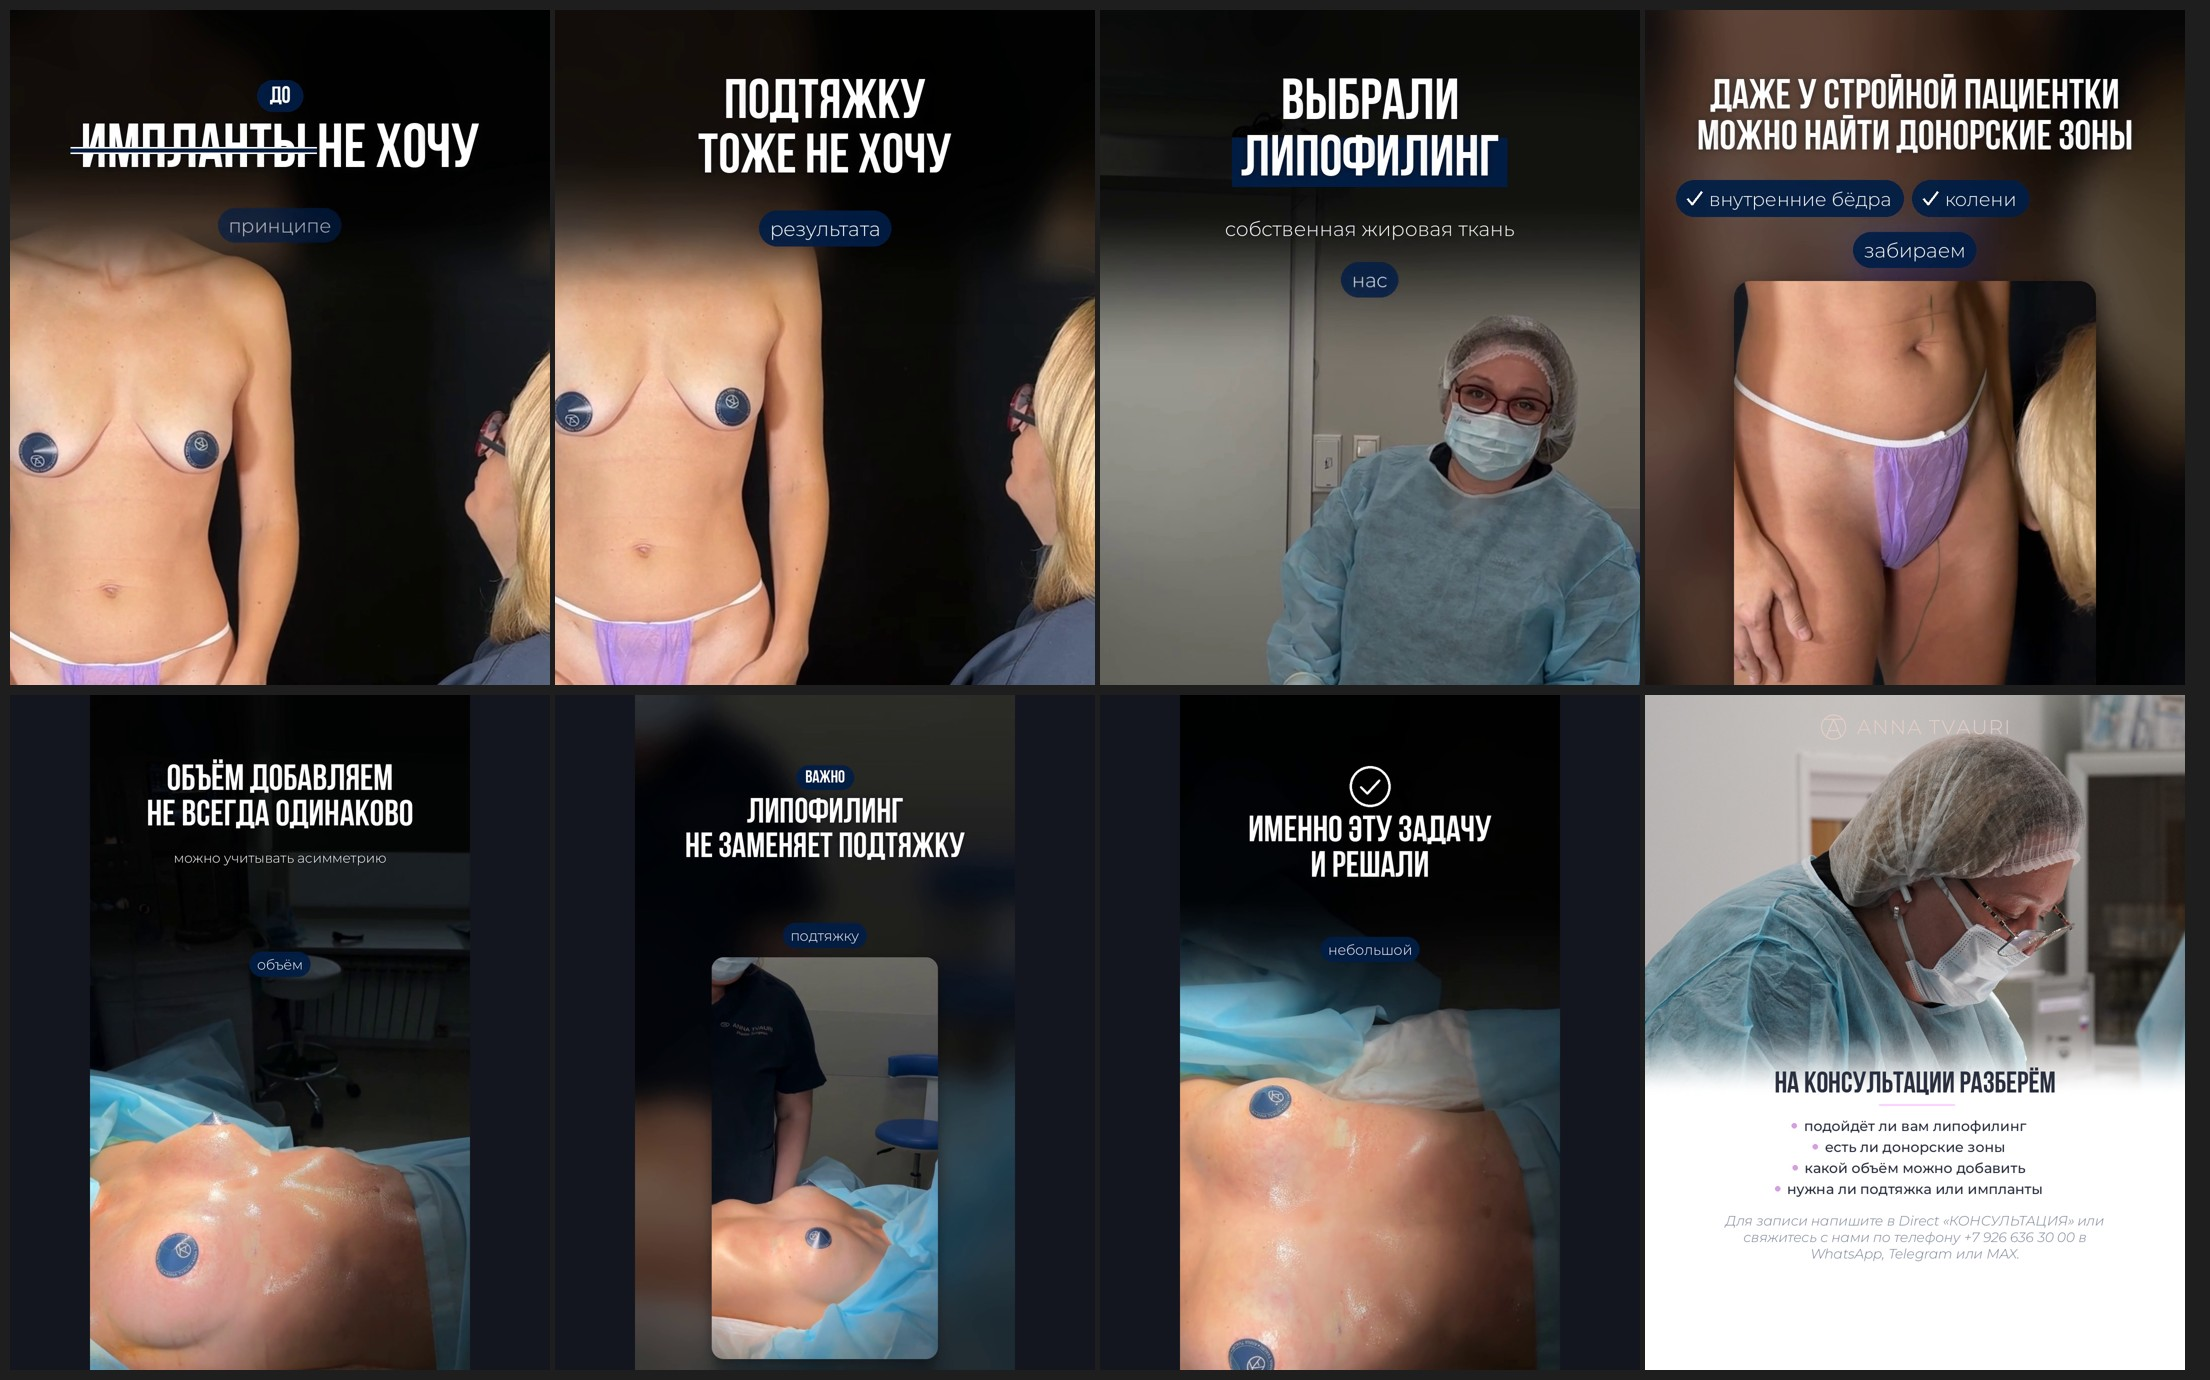
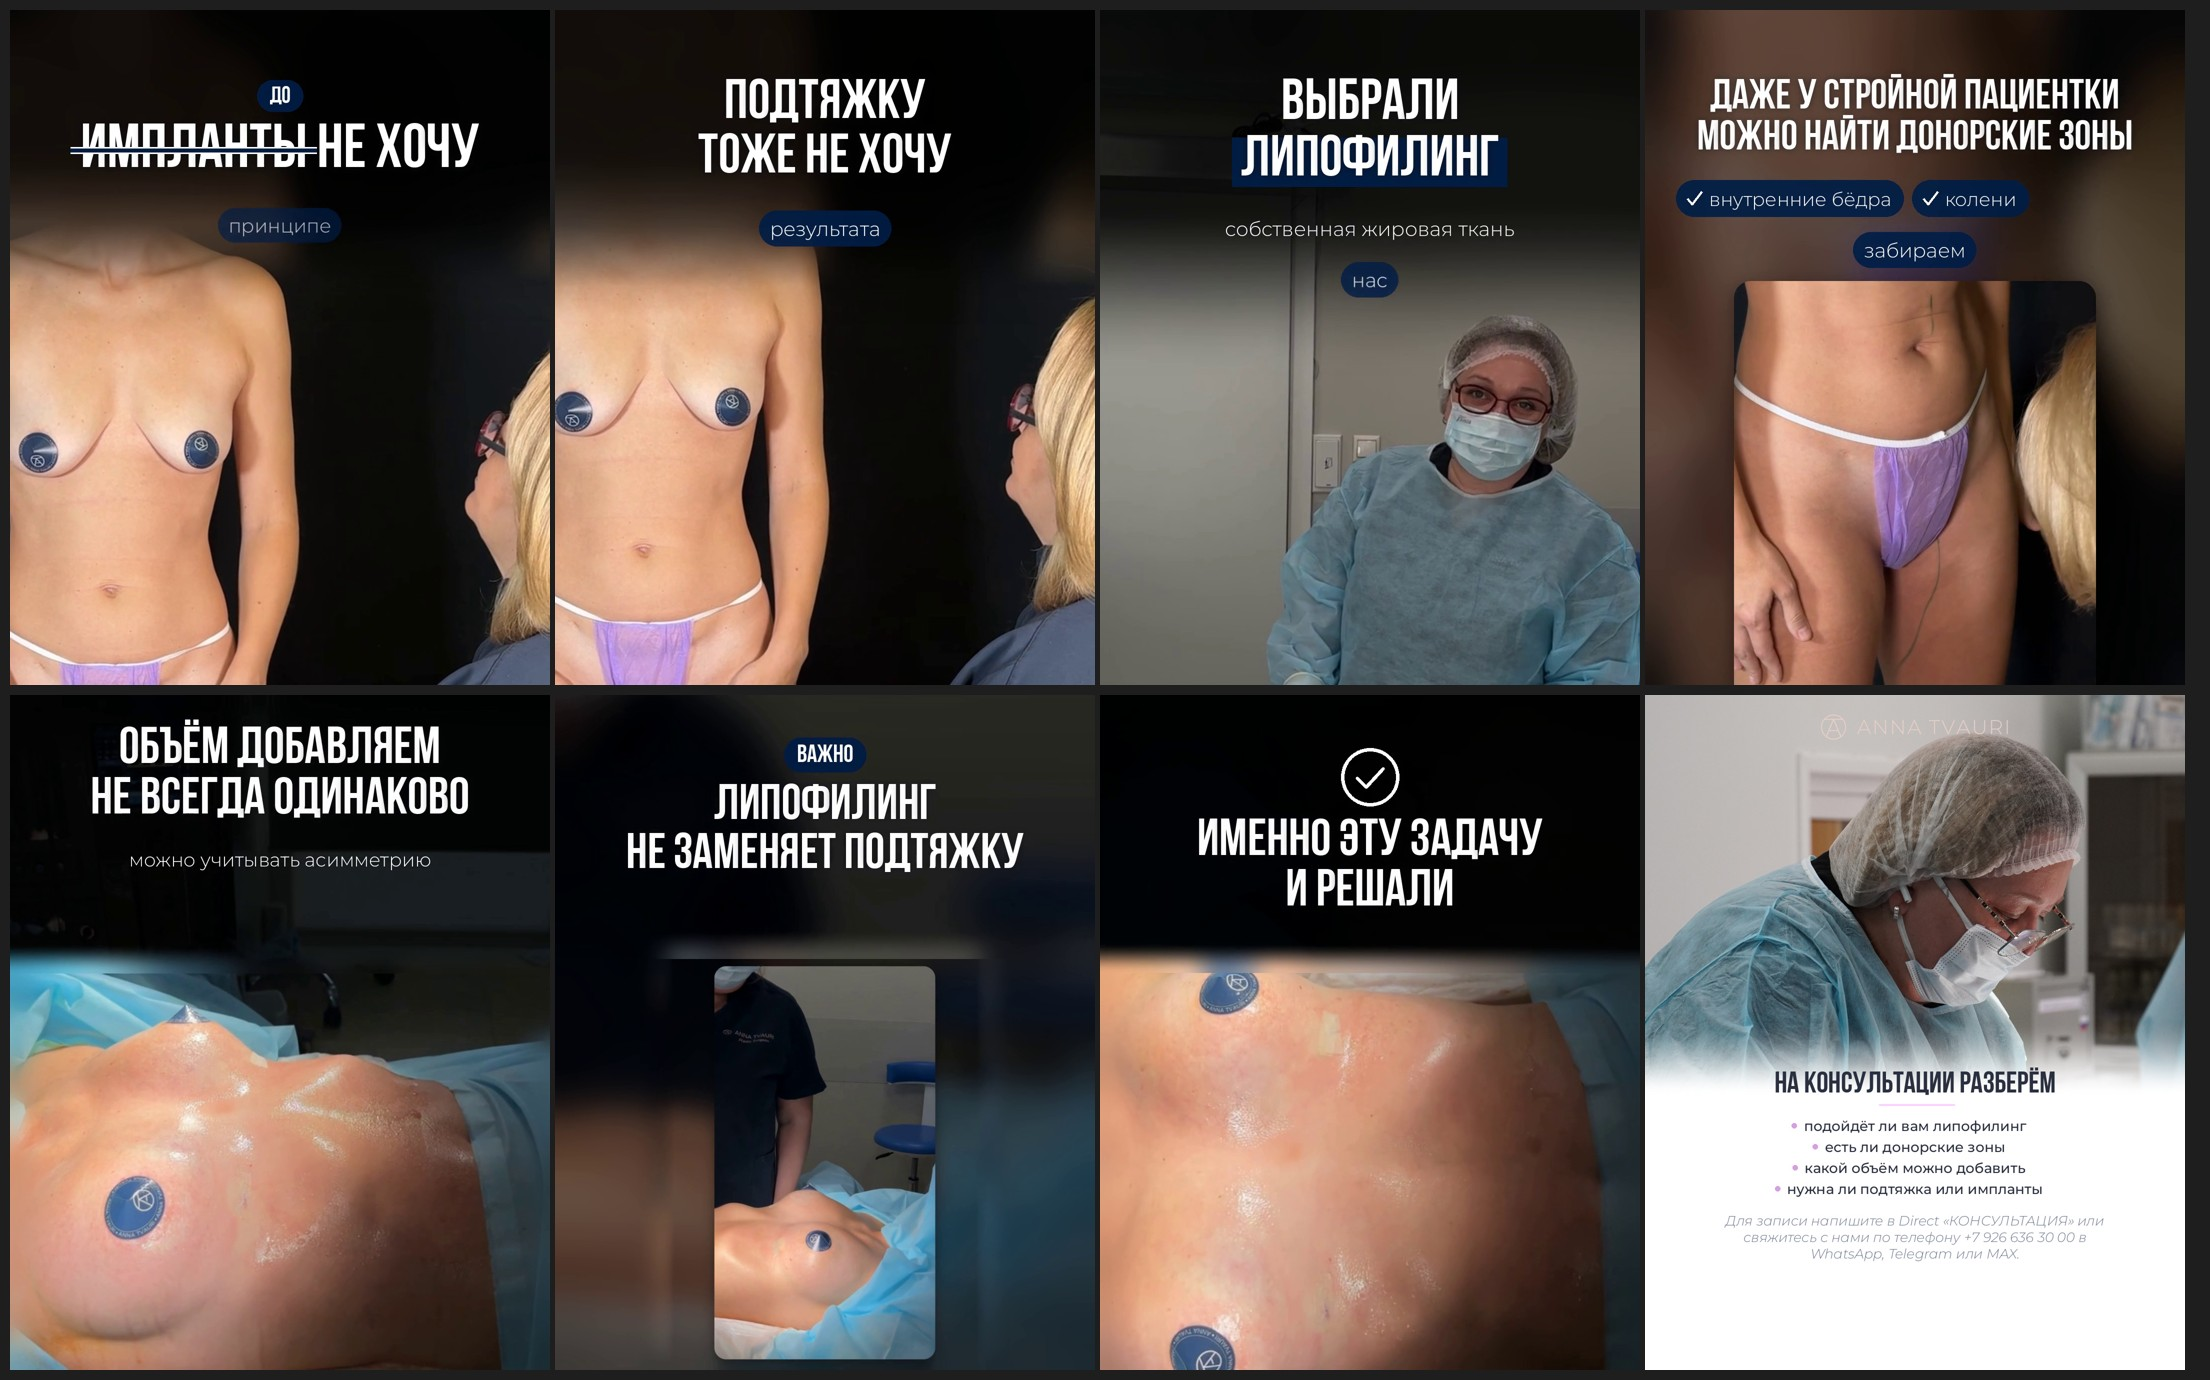
Lipofilling carousel: slides 5-7 full 4:5 (headline band stacked over footage), no side bars
Claude-Session: https://claude.ai/code/session_01XB7jWmRDxB52StXcRzXaWE

Changed region(s): [[0.0, 0.4986, 0.7493, 0.9971], [0.6869, 0.9659, 0.7181, 0.9971], [0.3434, 0.779, 0.3747, 0.8101]]

diff --git a/tools/carousel_lipofilling.py b/tools/carousel_lipofilling.py
@@ -21,16 +21,63 @@ SLIDES = [
     ("02_lift_no", 4.93, 10.67),
     ("03_chose_lipofilling", 10.67, 19.20),
     ("04_donor_zones", 19.20, 23.07),
-    ("05_volume", 23.07, 29.20, "fit"),
-    ("06_not_a_lift", 29.20, 36.60, "fit"),
-    ("07_this_task", 36.60, None, "fit"),
+    # headline band (top of the reel) stacked over the footage band (bottom of the reel): full 4:5, no side bars
+    ("05_volume", 23.07, 29.20, "stack", (0.07, 0.36), (0.585, 1.0)),
+    ("06_not_a_lift", 29.20, 36.60, "stack", (0.06, 0.335), (0.378, 1.0)),
+    ("07_this_task", 36.60, None, "stack", (0.05, 0.34), (0.585, 1.0)),
 ]
 
 
 G = "0x%02x%02x%02x" % ct.GRAPHITE
 
 
-def cut(name, a, b, mode="crop"):
+def stack(name, a, b, top, bot):
+    """top band at native scale + bottom band filling the rest of the 4:5 frame, soft seam between them"""
+    import numpy as np, cv2
+    SH = 1920
+    dur = (b or float(subprocess.run(["ffprobe", "-v", "error", "-show_entries", "format=duration", "-of", "csv=p=0", REEL],
+                                     capture_output=True, text=True).stdout)) - a
+    t0, t1 = int(top[0] * SH), int(top[1] * SH); b0, b1 = int(bot[0] * SH), int(bot[1] * SH)
+    ha = t1 - t0; hb = H - ha; seam = 60
+    rd = subprocess.Popen(["ffmpeg", "-v", "error", "-ss", f"{a:.3f}", "-t", f"{dur:.3f}", "-i", REEL,
+                           "-f", "rawvideo", "-pix_fmt", "rgb24", "-"], stdout=subprocess.PIPE)
+    tmp = f"{OUT}/_{name}_v.mp4"
+    wr = subprocess.Popen(["ffmpeg", "-v", "error", "-y", "-f", "rawvideo", "-pix_fmt", "rgb24", "-s", f"{W}x{H}", "-r", "30",
+                           "-i", "-", "-c:v", "libx264", "-preset", "medium", "-crf", "17", "-pix_fmt", "yuv420p", tmp],
+                          stdin=subprocess.PIPE)
+    k = np.linspace(0, 1, seam, dtype=np.float32)[:, None, None]; k = k * k * (3 - 2 * k)
+    while True:
+        buf = rd.stdout.read(W * SH * 3)
+        if len(buf) < W * SH * 3: break
+        f = np.frombuffer(buf, np.uint8).reshape(SH, W, 3)
+        A = f[t0:t1].astype(np.float32)
+        Bsrc = f[b0:b1]
+        if b1 - b0 <= hb:  # native scale; the seam rows come from just above the band, so nothing repeats
+            ext = f[max(b1 - hb - seam, 0):b1].astype(np.float32)
+            B = ext[-hb:]; Bseam = ext[:seam] if len(ext) >= hb + seam else B[:seam] * 0 + A[-1:]
+        else:  # taller than the room left: scale the footage down over its own (already blurred) background
+            s = hb / (b1 - b0); fw = int(W * s) // 2 * 2
+            fg = cv2.resize(Bsrc, (fw, hb), interpolation=cv2.INTER_AREA).astype(np.float32)
+            bg = cv2.GaussianBlur(cv2.resize(Bsrc, (W, hb), interpolation=cv2.INTER_AREA), (0, 0), 25).astype(np.float32)
+            m = np.ones((hb, fw, 1), np.float32); e = 70
+            r = np.linspace(0, 1, e, dtype=np.float32)[None, :, None]; m[:, :e] *= r; m[:, -e:] *= r[:, ::-1]
+            x = (W - fw) // 2; B = bg.copy(); B[:, x:x + fw] = bg[:, x:x + fw] * (1 - m) + fg * m
+            Bseam = np.repeat(bg[:1], seam, 0)  # plain blurred background under the seam
+        out = np.empty((H, W, 3), np.float32)
+        out[:ha] = A; out[ha:] = B
+        out[ha - seam:ha] = A[ha - seam:] * (1 - k) + Bseam * k  # soft seam between the two bands
+        wr.stdin.write(np.clip(out, 0, 255).astype(np.uint8).tobytes())
+    wr.stdin.close(); wr.wait(); rd.wait()
+    fo = max(dur - 0.12, 0)
+    subprocess.run(["ffmpeg", "-v", "error", "-y", "-i", tmp, "-ss", f"{a:.3f}", "-t", f"{dur:.3f}", "-i", REEL,
+                    "-map", "0:v", "-map", "1:a", "-c:v", "copy",
+                    "-af", f"afade=t=in:d=0.06,afade=t=out:st={fo:.3f}:d=0.12",
+                    "-c:a", "aac", "-b:a", "160k", "-shortest", "-movflags", "+faststart", f"{OUT}/{name}.mp4"], check=True)
+    os.remove(tmp)
+
+
+def cut(name, a, b, mode="crop", top=None, bot=None):
+    if mode == "stack": return stack(name, a, b, top, bot)
     dur = (b or float(subprocess.run(["ffprobe", "-v", "error", "-show_entries", "format=duration", "-of", "csv=p=0", REEL],
                                      capture_output=True, text=True).stdout)) - a
     fo = max(dur - 0.12, 0)
